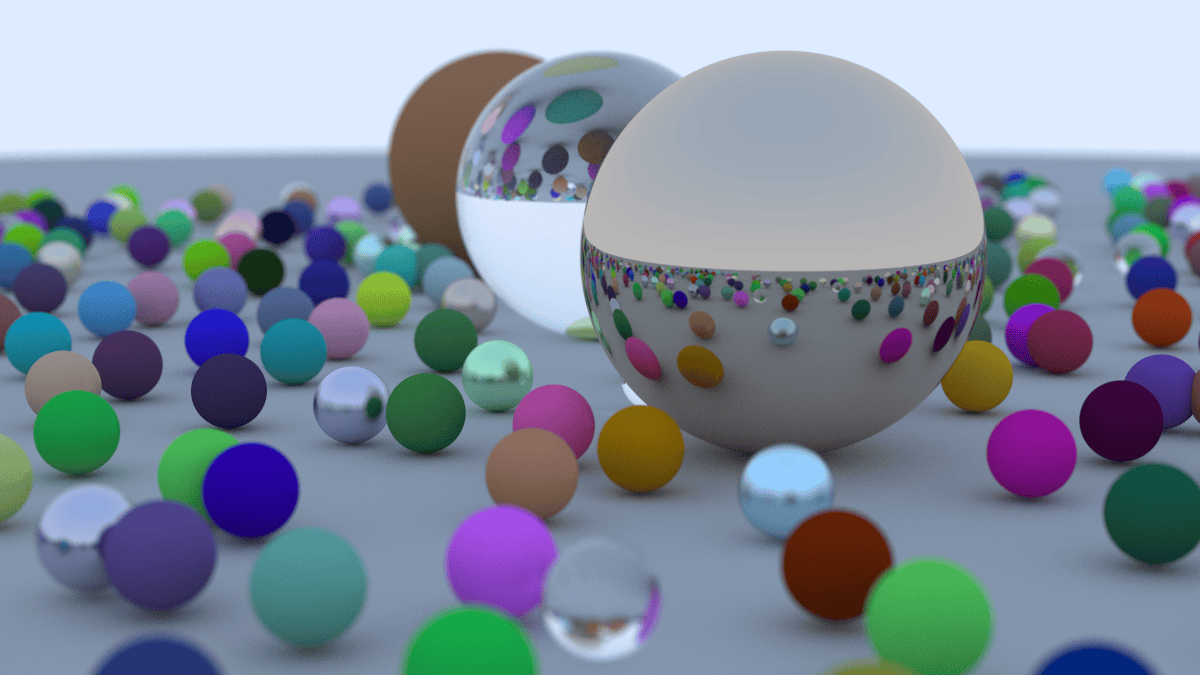
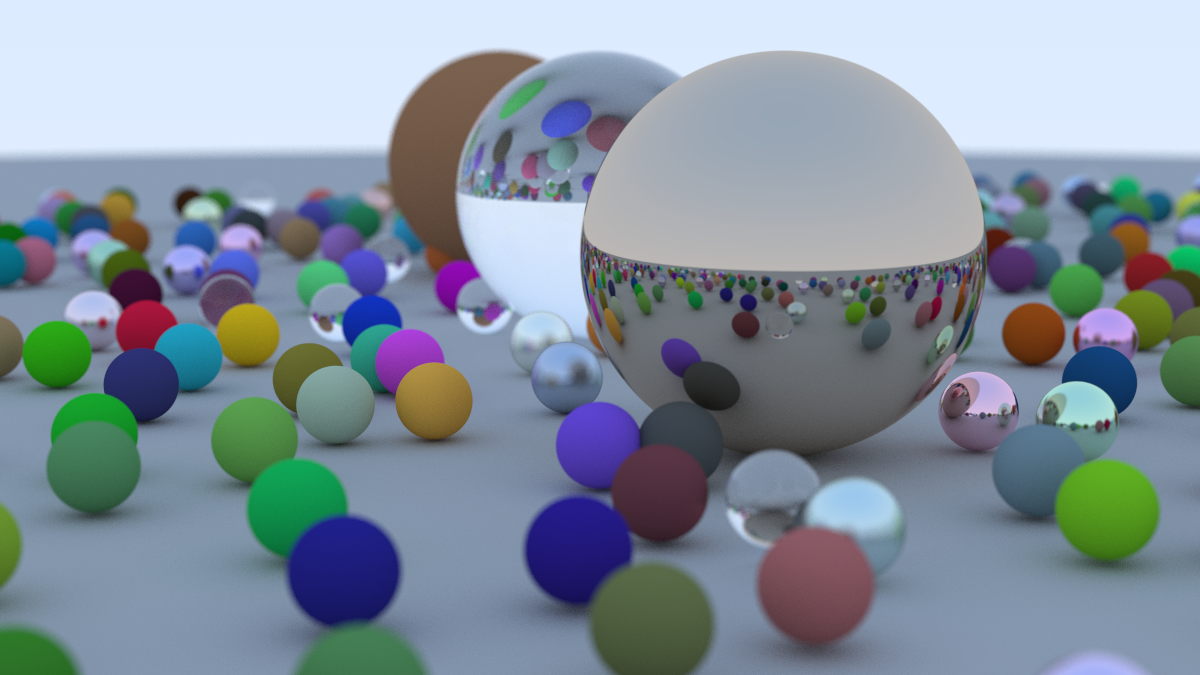
checker texture, image in README

diff --git a/README.md b/README.md
@@ -1,3 +1,7 @@
 # Ray Tracing
 
 Ray tracers in C++ and Haskell based on the books [Ray Tracing in One Weekend](https://raytracing.github.io//books/RayTracingInOneWeekend.html) and [Ray Tracing: The Next Week](https://raytracing.github.io//books/RayTracingTheNextWeek.html) by Peter Shirley. 
+
+![Example](demo1.png)
+
+The image above was generated with the Haskell ray tracer in about 8 minutes.
